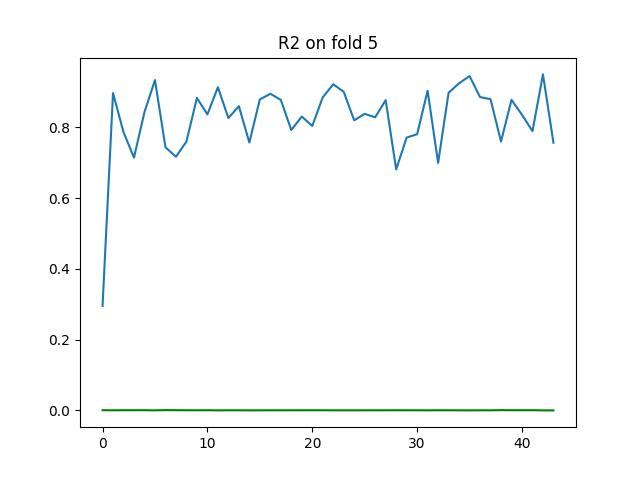
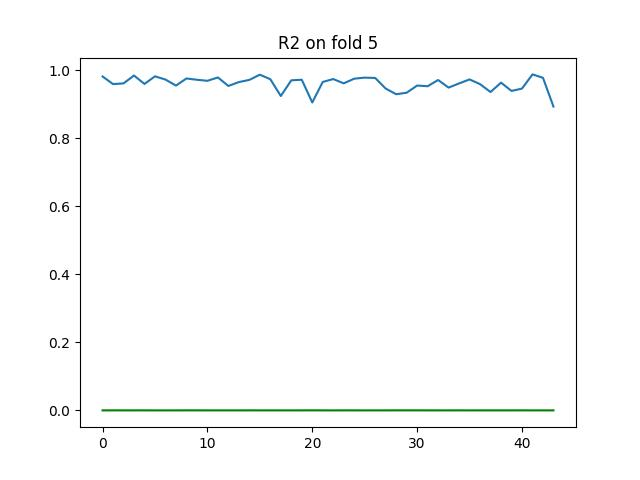
final

diff --git a/main.py b/main.py
@@ -218,4 +218,4 @@ if __name__ == "__main__":
 
     # network = SeqNet(model_seq_2) # Best
     network = SeqNet(model_seq_2)
-    train(network, train_data, 1e-4, 500, nn.MSELoss(), None, k_folds = 5)
+    train(network, train_data, 1e-2, 500, nn.MSELoss(), None, k_folds = 5)
